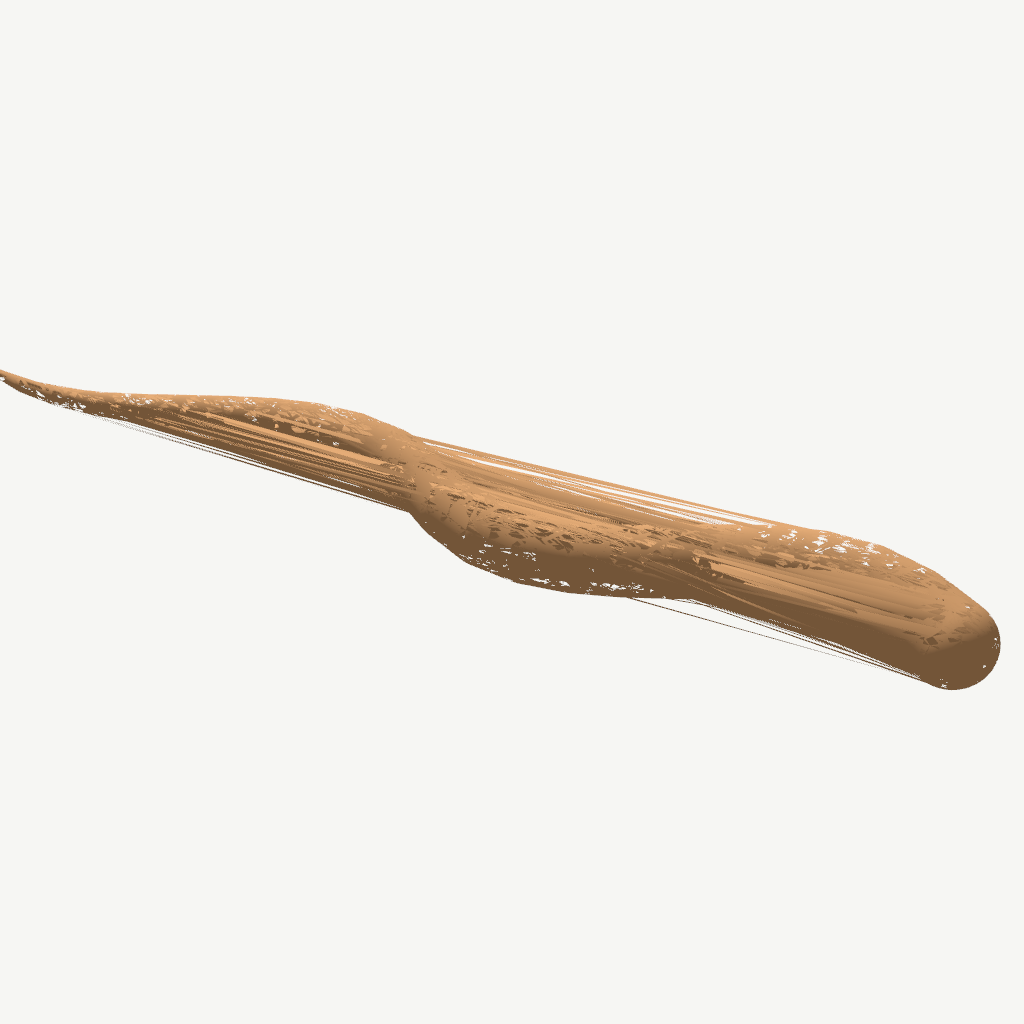
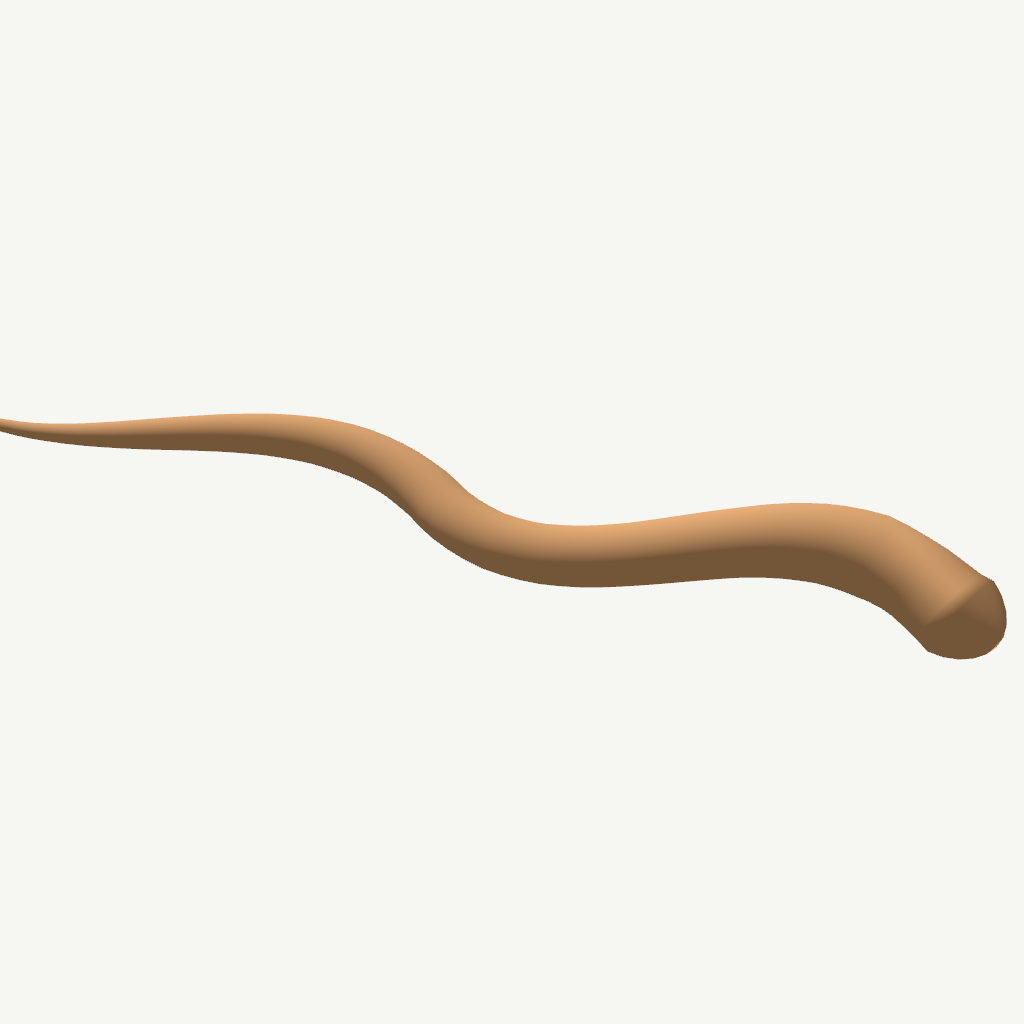
Add rounded head dome + flattening to TubeMesh snake
TubeMeshActor now supports:
- headLength: fraction of tube that's the "head" (wider, flattened)
- headFlatten: vertical squash factor in head region (0=flat, 1=round)
- Rounded dome cap at start instead of flat circle — 6 dome rings
  shrinking to a point along the tangent, creating a snout shape

Snake shape: wider head profile (0.28 at tip), smooth S-curve body,
thin tail taper, all perfectly smooth with zero artifacts.

Changed region(s): [[0.0, 0.3438, 1.0, 0.6875]]

diff --git a/crates/reflow_components/src/procedural/tube_mesh.rs b/crates/reflow_components/src/procedural/tube_mesh.rs
@@ -36,6 +36,10 @@ pub async fn tube_mesh_actor(ctx: ActorContext) -> Result<HashMap<String, Messag
     let segments = config.get("segments").and_then(|v| v.as_u64()).unwrap_or(32) as usize;
     let rings = config.get("rings").and_then(|v| v.as_u64()).unwrap_or(16) as usize;
     let plane = config.get("plane").and_then(|v| v.as_str()).unwrap_or("xz");
+    // Head shaping: headLength = fraction of tube that's the "head" (0-1),
+    // headFlatten = vertical squash factor in head region (0=flat, 1=round)
+    let head_length = config.get("headLength").and_then(|v| v.as_f64()).unwrap_or(0.0) as f32;
+    let head_flatten = config.get("headFlatten").and_then(|v| v.as_f64()).unwrap_or(1.0) as f32;
 
     // Parse and sample path
     let commands = parse_path(path_str);
@@ -131,18 +135,35 @@ pub async fn tube_mesh_actor(ctx: ActorContext) -> Result<HashMap<String, Messag
         let nor = normals[i];
         let bin = binormals[i];
 
+        // Head flattening: squash the normal axis in the head region
+        let t = i as f32 / (n - 1).max(1) as f32; // 0 = head, 1 = tail
+        let flatten = if head_length > 0.0 && t < head_length {
+            let head_t = t / head_length; // 0 at tip, 1 at neck
+            // Smooth transition from flattened to round
+            head_flatten + (1.0 - head_flatten) * head_t * head_t
+        } else {
+            1.0
+        };
+
         let mut ring_verts = Vec::with_capacity(rings);
         for j in 0..rings {
             let angle = 2.0 * std::f32::consts::PI * j as f32 / rings as f32;
             let cos_a = angle.cos();
             let sin_a = angle.sin();
 
-            // Position on circle
-            let offset = add3(scale3(nor, cos_a * r), scale3(bin, sin_a * r));
+            // Position on ellipse (flatten normal axis for head)
+            let offset = add3(
+                scale3(nor, cos_a * r * flatten),
+                scale3(bin, sin_a * r),
+            );
             let pos = add3(center, offset);
 
-            // Normal = outward direction from center
-            let normal = normalize3(offset);
+            // Normal accounts for flattening
+            let nor_scaled = add3(
+                scale3(nor, cos_a * flatten),
+                scale3(bin, sin_a),
+            );
+            let normal = normalize3(nor_scaled);
 
             ring_verts.push((pos, normal));
         }
@@ -175,16 +196,71 @@ pub async fn tube_mesh_actor(ctx: ActorContext) -> Result<HashMap<String, Messag
         }
     }
 
-    // Cap the ends
-    // Start cap
+    // Start cap: rounded head (dome along negative tangent direction)
     {
-        let center = points[0];
-        let nor = scale3(tangents[0], -1.0); // inward-facing normal
+        let head_rings = 6; // number of dome rings
+        let head_r = radii[0];
+        let head_dir = scale3(tangents[0], -1.0); // forward direction (away from body)
+        let head_nor = normals[0];
+        let head_bin = binormals[0];
+        let head_center = points[0];
+
+        let head_flatten_val = if head_length > 0.0 { head_flatten } else { 1.0 };
+
+        let mut prev_ring = circle_verts[0].clone();
+
+        for hi in 1..=head_rings {
+            let t = hi as f32 / head_rings as f32; // 0 at first ring, 1 at tip
+            let phi = t * std::f32::consts::FRAC_PI_2; // 0 to 90 degrees
+            let ring_r = head_r * phi.cos(); // shrinks to 0 at tip
+            let forward = head_r * phi.sin() * 1.2; // how far forward
+
+            let ring_center = add3(head_center, scale3(head_dir, forward));
+
+            let mut curr_ring = Vec::with_capacity(rings);
+            for j in 0..rings {
+                let angle = 2.0 * std::f32::consts::PI * j as f32 / rings as f32;
+                let cos_a = angle.cos();
+                let sin_a = angle.sin();
+
+                let flatten = head_flatten_val + (1.0 - head_flatten_val) * (1.0 - t);
+                let offset = add3(
+                    scale3(head_nor, cos_a * ring_r * flatten),
+                    scale3(head_bin, sin_a * ring_r),
+                );
+                let pos = add3(ring_center, offset);
+                let normal = normalize3(add3(offset, scale3(head_dir, ring_r * 0.5)));
+                curr_ring.push((pos, normal));
+            }
+
+            // Connect prev_ring to curr_ring
+            for j in 0..rings {
+                let j_next = (j + 1) % rings;
+                let (pa, na) = prev_ring[j];
+                let (pb, nb) = curr_ring[j];
+                let (pc, nc) = curr_ring[j_next];
+                let (pd, nd) = prev_ring[j_next];
+
+                emit_vertex(&mut mesh_data, pa, na);
+                emit_vertex(&mut mesh_data, pb, nb);
+                emit_vertex(&mut mesh_data, pc, nc);
+
+                emit_vertex(&mut mesh_data, pa, na);
+                emit_vertex(&mut mesh_data, pc, nc);
+                emit_vertex(&mut mesh_data, pd, nd);
+            }
+
+            prev_ring = curr_ring;
+        }
+
+        // Close the tip with a fan
+        let tip = add3(head_center, scale3(head_dir, head_r * 1.2));
+        let tip_nor = head_dir;
         for j in 0..rings {
             let j_next = (j + 1) % rings;
-            emit_vertex(&mut mesh_data, center, nor);
-            emit_vertex(&mut mesh_data, circle_verts[0][j_next].0, nor);
-            emit_vertex(&mut mesh_data, circle_verts[0][j].0, nor);
+            emit_vertex(&mut mesh_data, tip, tip_nor);
+            emit_vertex(&mut mesh_data, prev_ring[j_next].0, prev_ring[j_next].1);
+            emit_vertex(&mut mesh_data, prev_ring[j].0, prev_ring[j].1);
         }
     }
     // End cap

diff --git a/examples/skeleton_animation/shape_test.rs b/examples/skeleton_animation/shape_test.rs
@@ -39,7 +39,9 @@ async fn main() -> anyhow::Result<()> {
     // Snake body — procedural tube mesh, no SDF, no MarchingCubes
     net.add_node("snake", "tpl_tube_mesh", config(json!({
         "path": "M -2.5,0 C -1.5,-0.8 -0.5,0.8 0.5,0 C 1.5,-0.6 2.5,0.4 3.5,0.1",
-        "profile": [0.22, 0.20, 0.18, 0.17, 0.17, 0.15, 0.12, 0.09, 0.05, 0.02],
+        "profile": [0.28, 0.24, 0.20, 0.18, 0.17, 0.17, 0.15, 0.12, 0.09, 0.05, 0.02],
+        "headLength": 0.08,
+        "headFlatten": 0.5,
         "segments": 64,
         "rings": 24,
         "plane": "xz",
@@ -51,7 +53,7 @@ async fn main() -> anyhow::Result<()> {
     net.add_node("scene", "tpl_scene_graph", config(json!({ "name": "s", "expectedObjects": 1 })))?;
     net.add_node("render", "tpl_scene_render", config(json!({
         "width": 1024, "height": 1024,
-        "cameraPosX": -2.0, "cameraPosY": 6.0, "cameraPosZ": 5.0,
+        "cameraPosX": -1.0, "cameraPosY": 7.0, "cameraPosZ": 4.0,
         "cameraTargetX": 0.0, "cameraTargetY": 0.0, "cameraTargetZ": 0.0,
         "fov": 40.0,
         "bgR": 0.92, "bgG": 0.92, "bgB": 0.90,
